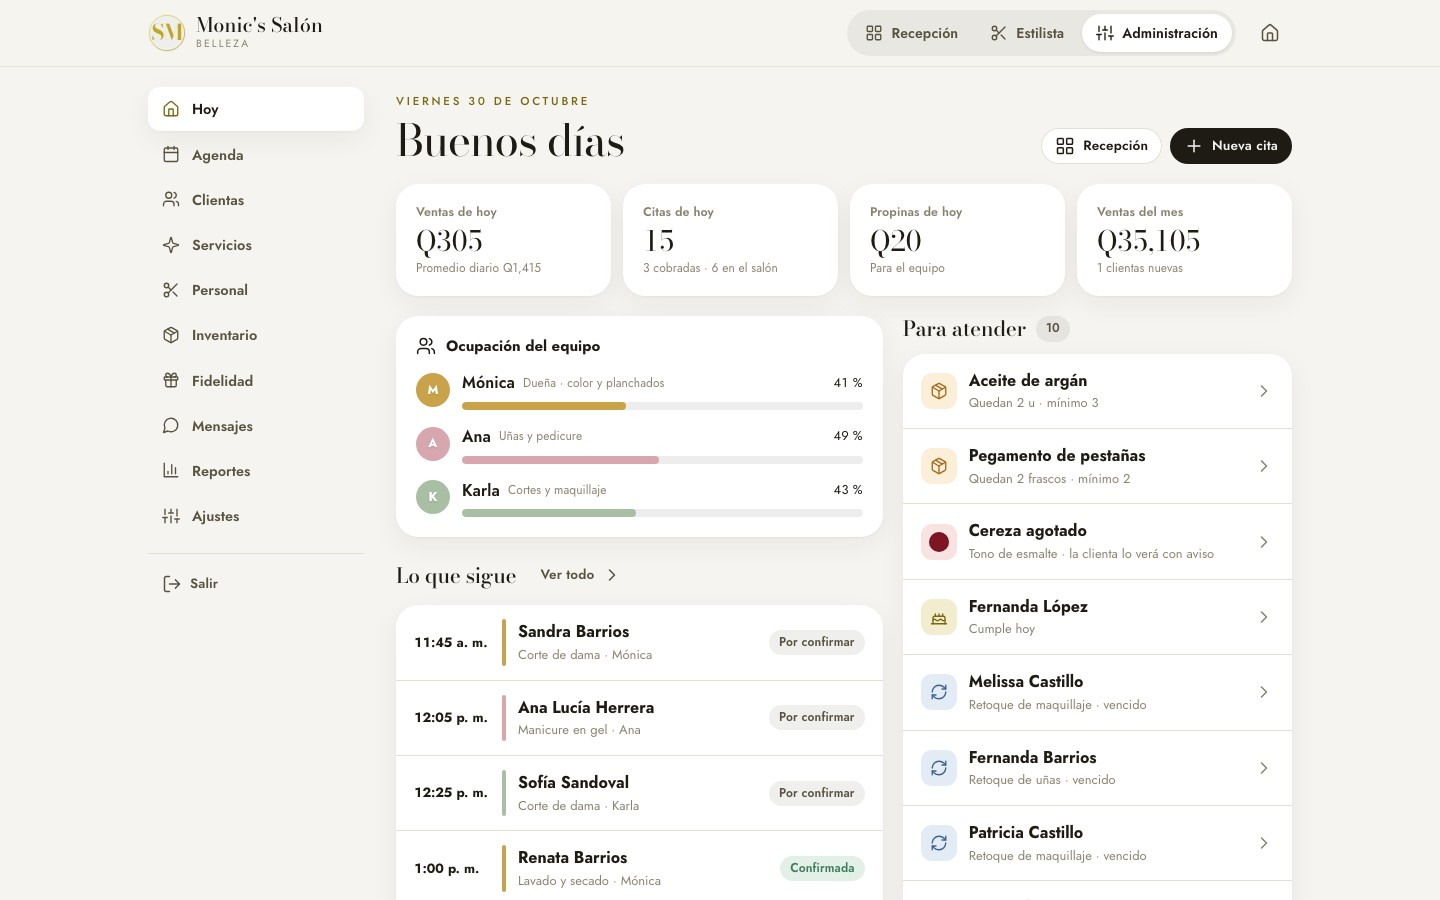
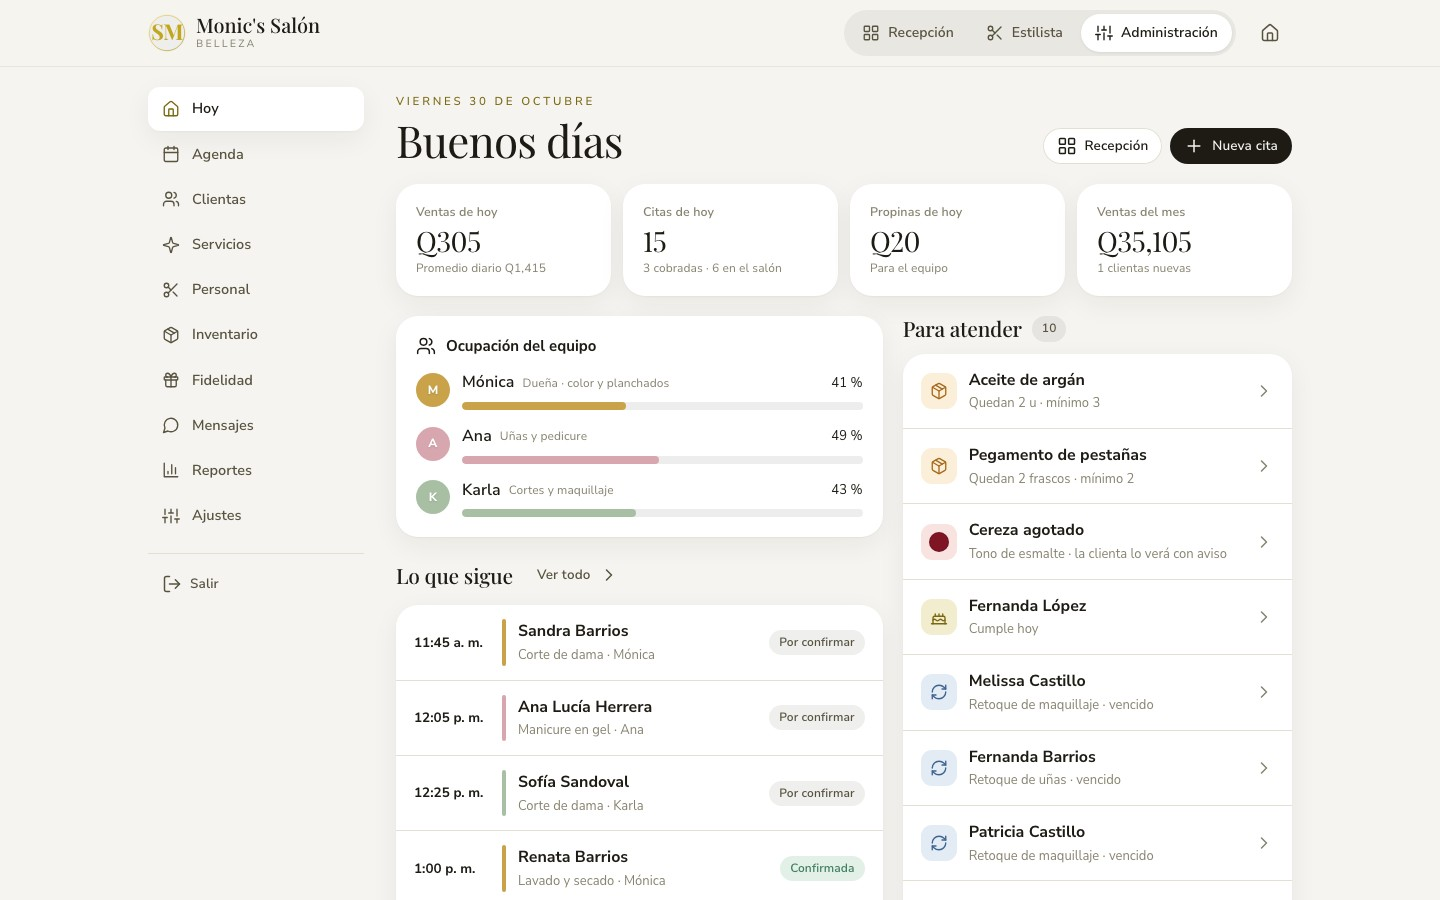
Letra Playfair + Nunito Sans y comparativa en quetzales más clara

diff --git a/Propuesta-Monics.html b/Propuesta-Monics.html
@@ -243,13 +243,35 @@ h3 { font-size: 24px; }
 @media (max-width: 880px) { .vivo-pasos { grid-template-columns: 1fr 1fr; } .escena { grid-template-columns: 1fr; justify-items: center; } .telefono { width: min(280px, 76vw); margin-bottom: 0; } .cable { display: none; } .tablet { width: 100%; } }
 
 /* comparativa */
-.tabla-env { margin-top: 40px; background: var(--tarjeta); border-radius: var(--r); box-shadow: var(--sombra); overflow-x: auto; }
-table { width: 100%; border-collapse: collapse; font-size: 15px; min-width: 640px; }
-th, td { padding: 16px 18px; text-align: left; border-bottom: 1px solid var(--linea); vertical-align: top; }
-thead th { font-size: 11.5px; letter-spacing: .14em; text-transform: uppercase; color: var(--tenue); font-weight: 500; }
-th.nos, td.nos { background: var(--t1); font-weight: 600; color: var(--tinta); }
-tbody th { font-weight: 500; color: var(--tinta2); }
-.si { color: var(--acento-texto); font-weight: 600; } .no { color: var(--tenue); }
+.tabla-env { margin-top: 40px; background: var(--tarjeta); border-radius: var(--r); box-shadow: var(--sombra); overflow: hidden; }
+.comp { width: 100%; border-collapse: collapse; font-size: 15px; table-layout: fixed; }
+.comp th, .comp td { padding: 16px 14px; text-align: center; border-bottom: 1px solid var(--linea); vertical-align: middle; }
+.comp tr:last-child th, .comp tr:last-child td { border-bottom: 0; }
+.comp thead th { font: 600 14px var(--f-texto); color: var(--tinta2); padding-top: 22px; }
+.comp thead th.nos { font: italic 500 19px var(--f-titulo); color: var(--acento-texto); }
+.comp tbody th { text-align: left; font-weight: 500; color: var(--tinta); width: 30%; padding-left: 22px; }
+.comp .nos { background: var(--t1); }
+.comp td { color: var(--tinta2); font-size: 14px; }
+.comp .q { display: block; font: 600 17px var(--f-texto); color: var(--tinta); white-space: nowrap; }
+.comp td.nos .q { color: var(--acento-texto); font-size: 19px; }
+.comp small { display: block; font-size: 12.5px; color: var(--tenue); margin-top: 2px; line-height: 1.35; }
+.ok { display: inline-grid; place-items: center; width: 26px; height: 26px; border-radius: 50%; background: var(--acento-texto); vertical-align: middle; }
+.ok::after { content: ""; width: 10px; height: 5px; margin-top: -3px; border-left: 2px solid #fff; border-bottom: 2px solid #fff; transform: rotate(-45deg); }
+.nada { color: color-mix(in srgb, var(--tenue) 70%, transparent); font-size: 18px; }
+.sr { position: absolute; width: 1px; height: 1px; overflow: hidden; clip: rect(0 0 0 0); }
+@media (max-width: 720px) {
+  .comp thead { display: none; }
+  .comp, .comp tbody, .comp tr { display: block; }
+  .comp tr { display: grid; grid-template-columns: 1fr 1fr; border-bottom: 1px solid var(--linea); padding: 14px 16px 16px; gap: 8px; }
+  .comp tr:last-child { border-bottom: 0; }
+  .comp tbody th { grid-column: 1 / -1; width: auto; padding: 0 0 4px; border: 0; font-size: 15.5px; }
+  .comp td { display: flex; align-items: center; justify-content: space-between; gap: 8px; text-align: right; padding: 10px 12px; border: 0; border-radius: 14px; background: var(--fondo); min-width: 0; }
+  .comp td.nos { background: var(--t1); }
+  .comp td::before { content: attr(data-l); font-size: 12.5px; color: var(--tenue); text-align: left; }
+  .comp td.nos::before { color: var(--acento-texto); font-weight: 600; }
+  .comp td:has(.q) { flex-direction: column; align-items: flex-start; text-align: left; gap: 2px; }
+  .comp .q { white-space: normal; }
+}
 .nota { font-size: 12.5px; color: var(--tenue); margin-top: 12px; }
 
 /* calculadora */
@@ -402,6 +424,24 @@ function comboHTML() {
       <p class="tx2" style="margin-top:10px">Reservas en línea, recordatorios, agenda y la tarjeta de sellos para que sus clientas vuelvan. Cuando el salón crezca, se pasa a Boutique pagando solo la diferencia.</p></div>
     <div class="combo-p"><div class="precio"><b>${Q(conIva(COMBO.mes))}</b><small class="tenue"> / mes</small></div><div class="activ">Activación: <b style="color:var(--tinta)">${Q(conIva(COMBO.activ))}</b> <s>${Q(conIva(2500 + 1200))}</s></div>
       <p class="nota">¿Con Apple y Google Wallet? + ${Q(conIva(2800))} de activación y ${Q(conIva(300))} al mes.</p></div></div>`;
+}
+
+/* ---------- comparativa (en quetzales) ---------- */
+function comparativaHTML() {
+  const SI = '<span class="ok" role="img" aria-label="Sí"></span>', NO = '<span class="nada" role="img" aria-label="No">—</span>';
+  const cols = ["Tu sistema", "Fresha", "Vagaro", "Boulevard"];
+  const filas = [
+    ["Al mes, con 6 personas", [`<b class="q">${P.generico ? "Q1,500" : "Q850"}</b><small>fijo, sin comisiones</small>`, '<b class="q">≈ Q690</b><small>+ 20 % por clienta nueva</small>', '<b class="q">≈ Q460–770</b><small>+ extras</small>', '<b class="q">≈ Q1,300</b><small>o más</small>']],
+    ["Se paga en quetzales", [SI, NO, NO, NO]],
+    ["Página con tu marca y colores", [SI, "Solo un perfil", "Básica", SI]],
+    ["Diseñador de uñas en la cita", [SI, NO, NO, NO]],
+    ["Recepción en vivo", [SI, "Básica", "Básica", SI]],
+    ["Las clientas quedan contigo", [SI, NO, NO, NO]],
+    ["Ayuda por WhatsApp en español", [SI, NO, NO, NO]]
+  ];
+  return `<table class="comp"><thead><tr><th><span class="sr">Qué incluye</span></th>${cols.map((c, i) => `<th class="${i ? "" : "nos"}">${c}</th>`).join("")}</tr></thead><tbody>`
+    + filas.map(([n, v]) => `<tr><th scope="row">${n}</th>${v.map((x, i) => `<td class="${i ? "" : "nos"}" data-l="${cols[i]}">${x}</td>`).join("")}</tr>`).join("")
+    + `</tbody></table>`;
 }
 
 /* ---------- paletas pastel ---------- */
@@ -634,18 +674,8 @@ $("raiz").innerHTML = `
 
 <section class="sec" id="comparativa"><div class="cont">
   ${cab("05", "Reservas en línea", "¿Por qué propio <em>y no una plataforma?</em>", `Fresha, Vagaro y Boulevard son buenas herramientas, pero cobran en dólares, por persona o por comisión, y la clienta termina en su app, no en la de ${esc(CLIENTE)}.`)}
-  <div class="tabla-env rev"><table>
-    <thead><tr><th></th><th class="nos">Sistema propio</th><th>Fresha</th><th>Vagaro</th><th>Boulevard / Mangomint</th></tr></thead>
-    <tbody>
-      <tr><th>Costo mensual con 6 personas</th><td class="nos">${P.generico ? "Q1,500 fijo" : "Desde Q850 fijo"}</td><td>Por persona y comisión por clienta nueva</td><td>≈ US$60–100 + extras</td><td>Desde ≈ US$160–175</td></tr>
-      <tr><th>Precio en quetzales</th><td class="nos si">Sí</td><td class="no">No</td><td class="no">No</td><td class="no">No</td></tr>
-      <tr><th>Tu página con tu marca y tus colores</th><td class="nos si">Sí, completa</td><td>Perfil dentro de su app</td><td>Perfil y página básica</td><td>Sí</td></tr>
-      <tr><th>Diseñador de uñas en la cita</th><td class="nos si">Sí</td><td class="no">No</td><td class="no">No</td><td class="no">No</td></tr>
-      <tr><th>Recepción en vivo</th><td class="nos si">Sí</td><td>Básica</td><td>Básica</td><td class="si">Sí</td></tr>
-      <tr><th>Datos de tus clientas</th><td class="nos si">Tuyos, descargables</td><td>En su plataforma</td><td>En su plataforma</td><td>En su plataforma</td></tr>
-      <tr><th>Soporte</th><td class="nos si">Por WhatsApp, en español</td><td>Centro de ayuda</td><td>Centro de ayuda</td><td>Correo y chat</td></tr>
-    </tbody></table></div>
-  <p class="nota">Precios públicos aproximados en dólares a octubre de 2026. Pueden cambiar y no incluyen comisiones de procesamiento de pagos.</p>
+  <div class="tabla-env rev">${comparativaHTML()}</div>
+  <p class="nota">Precios aproximados en quetzales (US$1 ≈ Q7.70), octubre de 2026. Las plataformas cobran en dólares con tarjeta; pueden cambiar y no incluyen comisiones por pagos.</p>
 </div></section>
 
 <section class="sec t4" id="calculadora"><div class="cont">

diff --git a/marca.js b/marca.js
@@ -94,9 +94,9 @@ window.MARCA = {
     oscuro: "#1E1B14"
   },
   fuentes: {
-    titulo: "Bodoni Moda",
-    texto: "Jost",
-    url: "https://fonts.googleapis.com/css2?family=Bodoni+Moda:ital,opsz,wght@0,6..96,400..700;1,6..96,400..600&family=Jost:wght@300..800&display=swap"
+    titulo: "Playfair Display",
+    texto: "Nunito Sans",
+    url: "https://fonts.googleapis.com/css2?family=Playfair+Display:ital,wght@0,400..900;1,400..900&family=Nunito+Sans:ital,opsz,wght@0,6..12,300..800;1,6..12,300..800&display=swap"
   },
   logoImg: "",
   monograma: "SM",
@@ -109,10 +109,10 @@ window.MARCA = {
       <circle cx="200" cy="200" r="198" fill="#EEEEEC"/>
       <circle class="anillo a1" pathLength="100" cx="200" cy="200" r="186" fill="none" stroke="url(#${id})" stroke-width="${detalle ? 2.4 : 7}"/>
       ${detalle ? `<circle class="anillo a2" pathLength="100" cx="207" cy="194" r="176" fill="none" stroke="url(#${id})" stroke-width="1.6"/><circle class="anillo a2" pathLength="100" cx="194" cy="207" r="170" fill="none" stroke="url(#${id})" stroke-width="1.1"/>` : ""}
-      <text x="200" y="${detalle ? 266 : 278}" text-anchor="middle" font-family="'Bodoni Moda', Didot, 'Bodoni 72', Georgia, serif" font-weight="700" font-size="${detalle ? 196 : 230}" letter-spacing="-8" fill="#C2A71E">SM</text>
+      <text x="200" y="${detalle ? 266 : 278}" text-anchor="middle" font-family="'Playfair Display', Didot, Georgia, serif" font-weight="700" font-size="${detalle ? 196 : 230}" letter-spacing="-8" fill="#C2A71E">SM</text>
       ${detalle ? `<rect x="58" y="172" width="284" height="40" fill="#EEEEEC"/>
-      <text x="203" y="207" text-anchor="middle" font-family="'Bodoni Moda', Didot, 'Bodoni 72', Georgia, serif" font-weight="500" font-size="38" letter-spacing="15" fill="#C2A71E">MONIC'S</text>
-      <text x="200" y="326" text-anchor="middle" font-family="'Bodoni Moda', Didot, 'Bodoni 72', Georgia, serif" font-weight="700" font-size="44" fill="#C2A71E">BELLEZA</text>` : ""}
+      <text x="203" y="207" text-anchor="middle" font-family="'Playfair Display', Didot, Georgia, serif" font-weight="500" font-size="38" letter-spacing="15" fill="#C2A71E">MONIC'S</text>
+      <text x="200" y="326" text-anchor="middle" font-family="'Playfair Display', Didot, Georgia, serif" font-weight="700" font-size="44" fill="#C2A71E">BELLEZA</text>` : ""}
     </svg>`;
   }
 };
